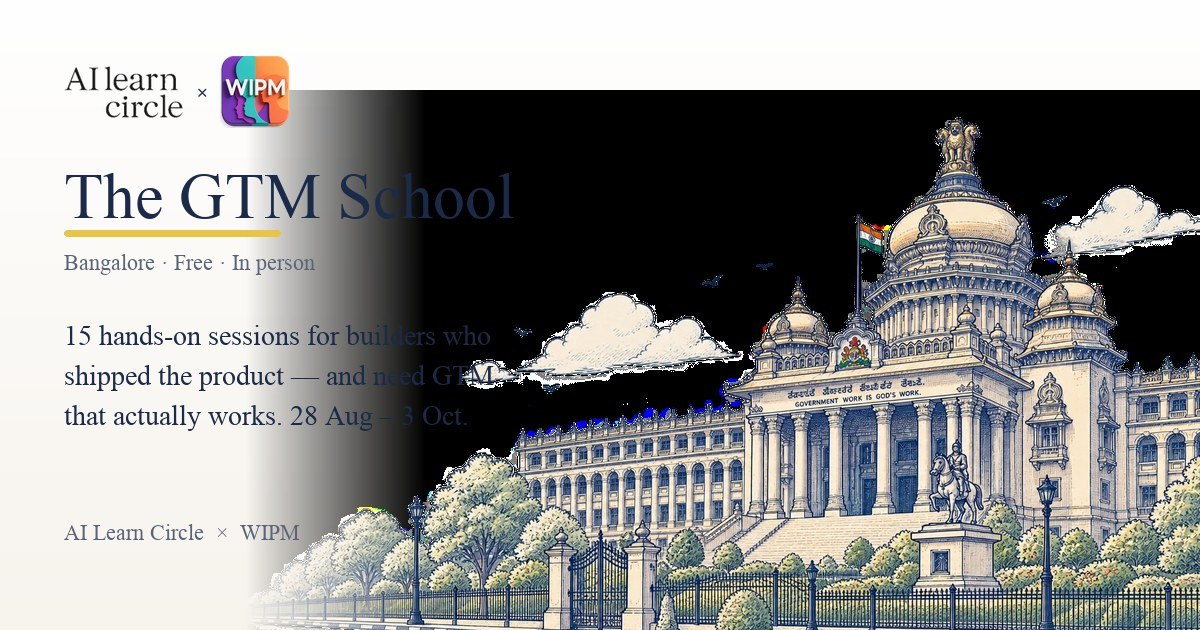
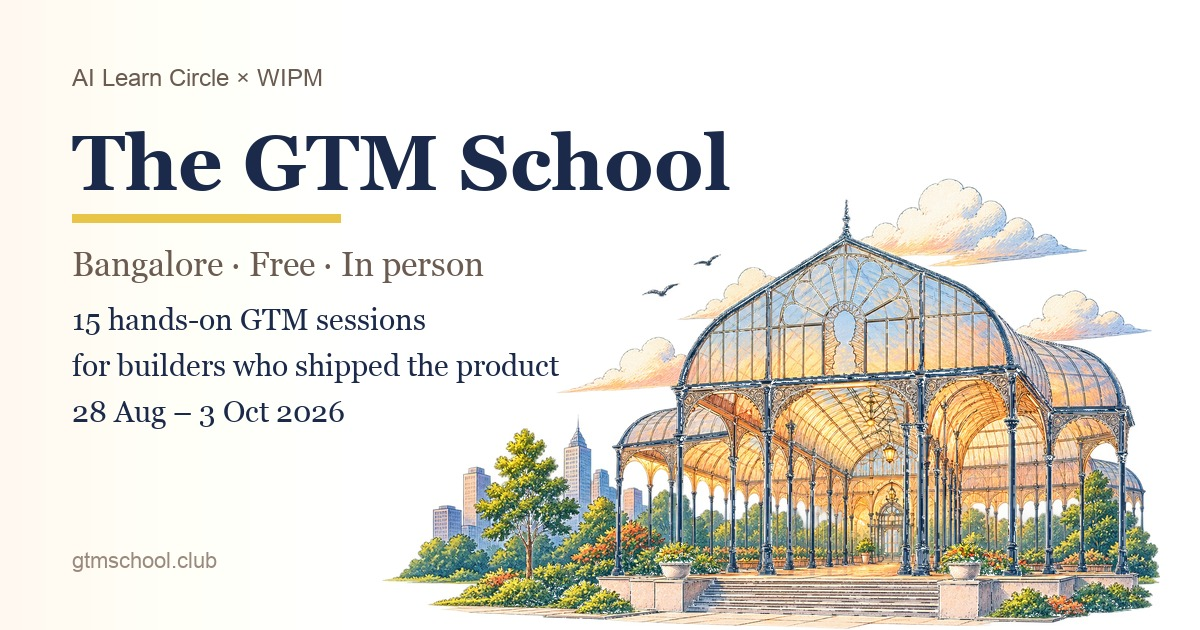
Fix link preview thumbnail with a clean OG image.
Replace the old share image that had a black gradient (looked broken in Luma and chat previews) with a cream-background OG card and bump the cache version.

diff --git a/src/app/layout.tsx b/src/app/layout.tsx
@@ -59,8 +59,8 @@ export const metadata: Metadata = {
     type: "website",
     images: [
       {
-        // ?v=15 busts WhatsApp/Facebook cached previews that still showed "20"
-        url: "/images/og-gtm-school.jpg?v=15",
+        // ?v=16 busts cached previews that showed the old black-gradient OG image
+        url: "/images/og-gtm-school.jpg?v=16",
         width: 1200,
         height: 630,
         alt: "The GTM School, Bangalore — 15 free in-person GTM sessions for builders",
@@ -73,7 +73,7 @@ export const metadata: Metadata = {
     title: "The GTM School — 15 free GTM sessions for builders in Bangalore",
     description:
       "15 hands-on sessions. Free. In person. 28 Aug–3 Oct. Ship real GTM deliverables. AI Learn Circle × WIPM.",
-    images: ["/images/og-gtm-school.jpg?v=15"],
+    images: ["/images/og-gtm-school.jpg?v=16"],
   },
 };
 
